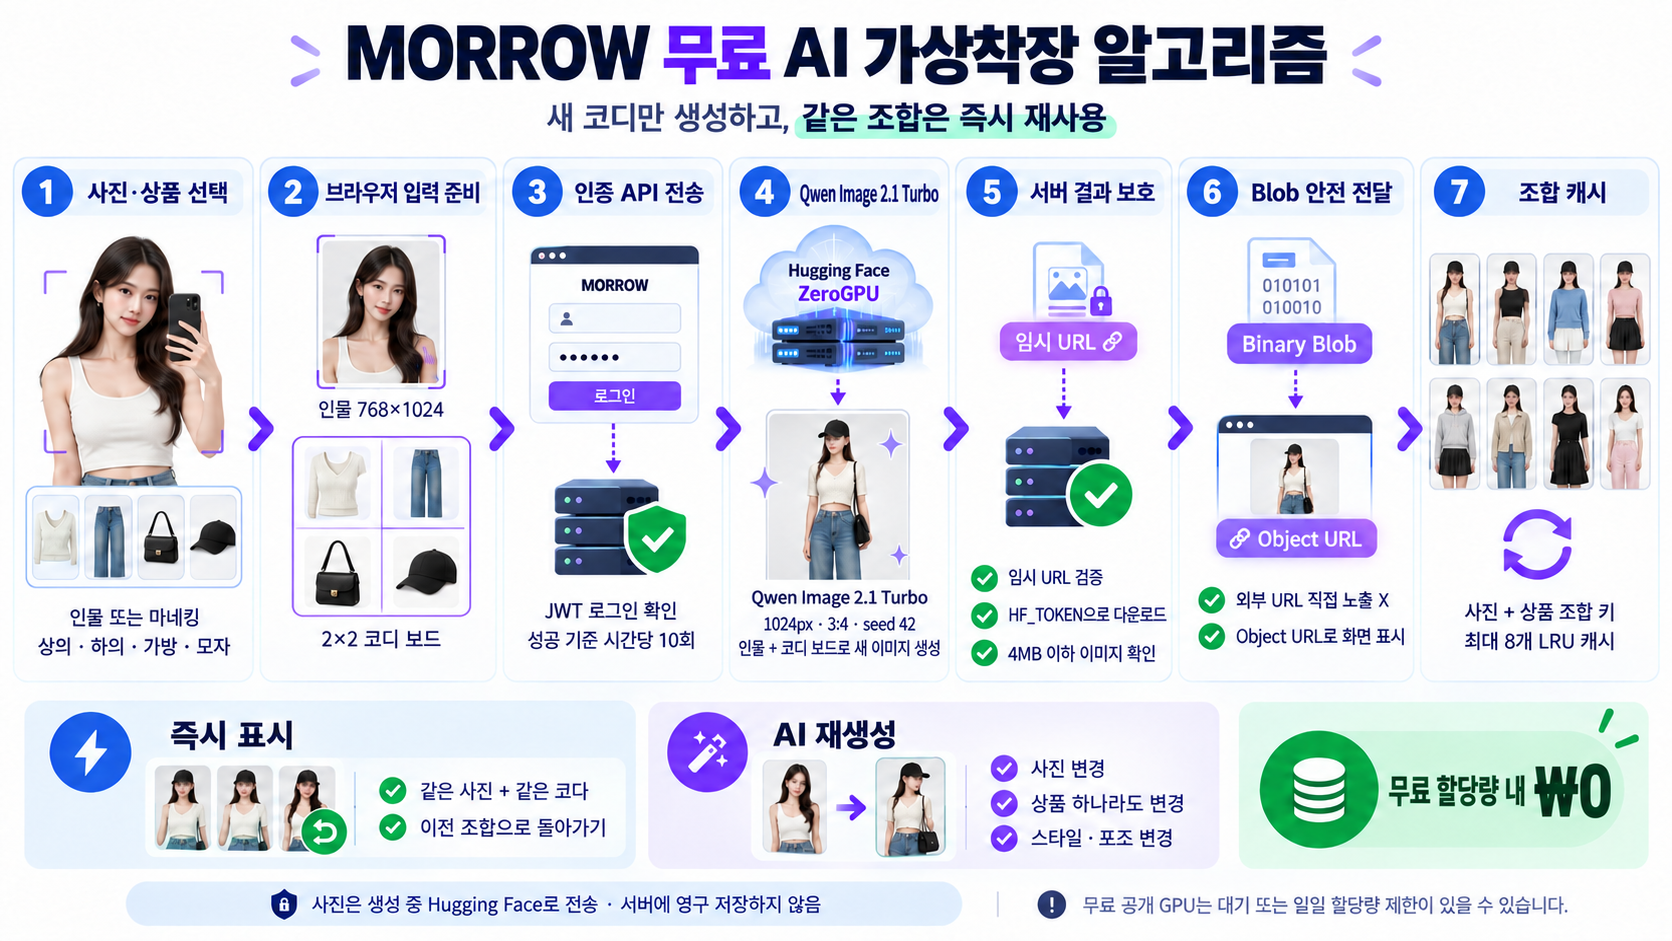
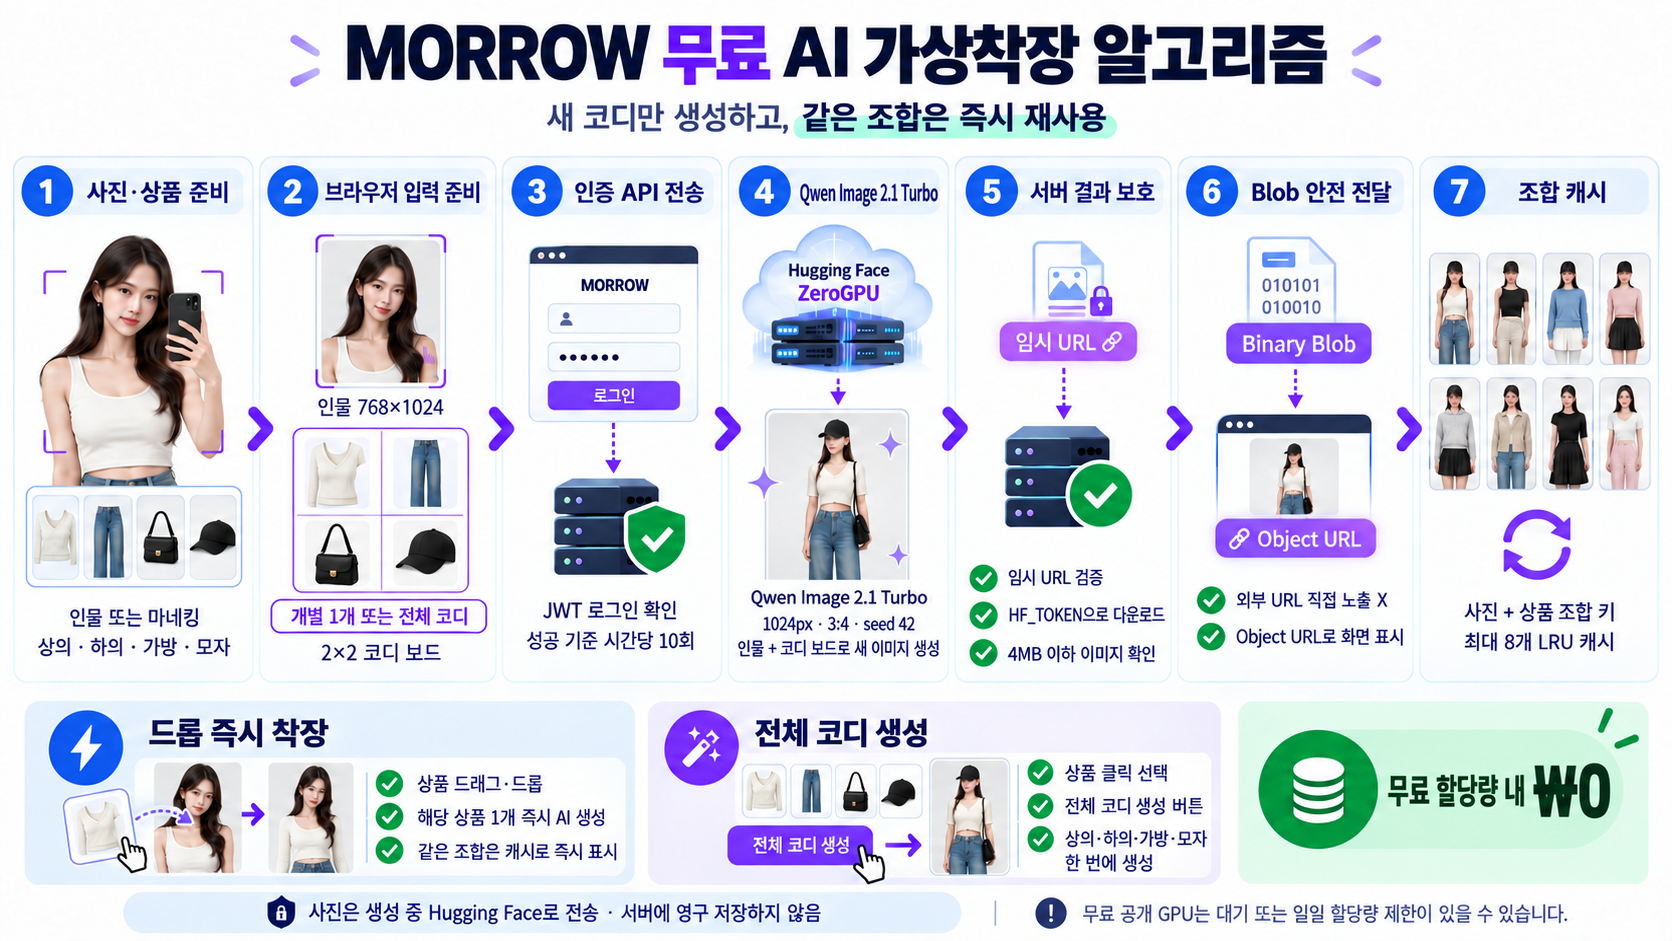
Optimize AI try-on interactions and docs

diff --git a/클라이언트/src/components/CartVirtualTryOn.jsx b/클라이언트/src/components/CartVirtualTryOn.jsx
@@ -75,12 +75,13 @@ function CartVirtualTryOn({ items, isOpen, onClose }) {
   const [isDragOver, setIsDragOver] = useState(false)
   const [dragPreview, setDragPreview] = useState(null)
   const [aiImageUrl, setAiImageUrl] = useState('')
-  const [isAiGenerating, setIsAiGenerating] = useState(false)
   const [aiGenerationLabel, setAiGenerationLabel] = useState('')
   const [isAiRevealing, setIsAiRevealing] = useState(false)
+  const isAiGenerating = Boolean(aiGenerationLabel)
   const objectUrlRef = useRef('')
   const aiImageObjectUrlRef = useRef('')
   const activeResultKeyRef = useRef('')
+  const generationInFlightRef = useRef(false)
   const productDragRef = useRef(null)
   const suppressClickRef = useRef(false)
   const closeButtonRef = useRef(null)
@@ -125,15 +126,7 @@ function CartVirtualTryOn({ items, isOpen, onClose }) {
     }
   }, [isOpen, onClose])
 
-  function updateSelection(productId, visible) {
-    clearAiResult()
-    setPlacements((current) => ({
-      ...current,
-      [productId]: { visible },
-    }))
-  }
-
-  function showProduct(product) {
+  function selectProduct(product) {
     clearAiResult()
     setSelectedId(product.key)
     setPlacements((current) => Object.fromEntries(
@@ -149,32 +142,20 @@ function CartVirtualTryOn({ items, isOpen, onClose }) {
     ))
   }
 
-  function fitProduct(product) {
-    clearAiResult()
-    setSelectedId(product.key)
-    setPlacements((current) => Object.fromEntries(
-      products.map((candidate) => [
-        candidate.key,
-        candidate.key === product.key
-          ? { visible: true }
-          : {
-              ...current[candidate.key],
-              visible: candidate.slot === product.slot ? false : current[candidate.key]?.visible,
-            },
-      ]),
-    ))
-  }
-
   function toggleProduct(product) {
-    clearAiResult()
     if (placements[product.key]?.visible) {
-      updateSelection(product.key, false)
+      clearAiResult()
+      setPlacements((current) => ({
+        ...current,
+        [product.key]: { visible: false },
+      }))
       return
     }
-    showProduct(product)
+    selectProduct(product)
   }
 
   function handleProductPointerDown(event, product) {
+    if (generationInFlightRef.current) return
     if (event.pointerType === 'mouse' && event.button !== 0) return
     event.preventDefault()
     event.currentTarget.setPointerCapture(event.pointerId)
@@ -214,9 +195,9 @@ function CartVirtualTryOn({ items, isOpen, onClose }) {
     }
     if (drag.active) {
       if (!cancelled && isPointOverStage(event.clientX, event.clientY)) {
-        fitProduct(drag.product)
+        selectProduct(drag.product)
         setError('')
-        void generateAiOutfit([drag.product])
+        void generateAiOutfit(drag.product)
       }
       suppressClickRef.current = true
       window.setTimeout(() => { suppressClickRef.current = false }, 0)
@@ -228,7 +209,7 @@ function CartVirtualTryOn({ items, isOpen, onClose }) {
 
   function handleProductClick(product) {
     if (suppressClickRef.current) return
-    showProduct(product)
+    selectProduct(product)
   }
 
   function handlePhotoChange(event) {
@@ -273,8 +254,8 @@ function CartVirtualTryOn({ items, isOpen, onClose }) {
     setSelectedId(products[0]?.key || '')
   }
 
-  async function generateAiOutfit(productsOverride) {
-    if (isAiGenerating) return
+  async function generateAiOutfit(singleProduct = null) {
+    if (generationInFlightRef.current) return
 
     const auth = getStoredAuth()
     if (!auth) {
@@ -282,18 +263,9 @@ function CartVirtualTryOn({ items, isOpen, onClose }) {
       return
     }
 
-    const isSingleProductTryOn = Array.isArray(productsOverride)
-    const selectedBySlot = new Map()
-    if (!isSingleProductTryOn) {
-      products.forEach((product) => {
-        if (placements[product.key]?.visible && !selectedBySlot.has(product.slot)) {
-          selectedBySlot.set(product.slot, product)
-        }
-      })
-    }
-    const outfitProducts = isSingleProductTryOn
-      ? productsOverride.slice(0, 1)
-      : [...selectedBySlot.values()]
+    const outfitProducts = singleProduct
+      ? [singleProduct]
+      : products.filter((product) => placements[product.key]?.visible)
     if (!outfitProducts.length) {
       setError('먼저 착용할 상품을 하나 이상 선택해 주세요.')
       return
@@ -313,9 +285,9 @@ function CartVirtualTryOn({ items, isOpen, onClose }) {
       return
     }
 
-    setIsAiGenerating(true)
-    setAiGenerationLabel(isSingleProductTryOn
-      ? `${outfitProducts[0].name} 상품을 입히는 중...`
+    generationInFlightRef.current = true
+    setAiGenerationLabel(singleProduct
+      ? `${singleProduct.name} 상품을 입히는 중...`
       : '선택한 전체 코디를 한 벌로 입히는 중...')
     setError('')
     try {
@@ -346,7 +318,7 @@ function CartVirtualTryOn({ items, isOpen, onClose }) {
     } catch (generationError) {
       setError(generationError.message || '무료 AI 가상 착장에 실패했습니다.')
     } finally {
-      setIsAiGenerating(false)
+      generationInFlightRef.current = false
       setAiGenerationLabel('')
     }
   }
@@ -435,10 +407,10 @@ function CartVirtualTryOn({ items, isOpen, onClose }) {
             </div>
 
             <label className="virtual-tryon-change-photo cart-tryon-photo-control">
-              <input type="file" accept="image/*" onChange={handlePhotoChange} />
+              <input type="file" accept="image/*" disabled={isAiGenerating} onChange={handlePhotoChange} />
               {isUsingMannequin ? '내 사진으로 바꾸기' : '사진 바꾸기'} <small>{photoName}</small>
             </label>
-            {!isUsingMannequin ? <button className="virtual-tryon-mannequin" type="button" onClick={useDefaultMannequin}>기본 마네킹으로 돌아가기</button> : null}
+            {!isUsingMannequin ? <button className="virtual-tryon-mannequin" type="button" disabled={isAiGenerating} onClick={useDefaultMannequin}>기본 마네킹으로 돌아가기</button> : null}
 
             <div className="cart-tryon-ai-box">
               <span aria-hidden="true">AI</span>
@@ -449,7 +421,7 @@ function CartVirtualTryOn({ items, isOpen, onClose }) {
               <small>같은 사진과 코디는 페이지를 나가기 전까지 즉시 재사용하며, 새로운 조합만 AI가 생성합니다.</small>
             </div>
 
-            <button className="virtual-tryon-reset" type="button" onClick={resetOutfit}>AI 코디 선택 초기화</button>
+            <button className="virtual-tryon-reset" type="button" disabled={isAiGenerating} onClick={resetOutfit}>AI 코디 선택 초기화</button>
             {error ? <p className="virtual-tryon-error" role="alert">{error}</p> : null}
             <div className="virtual-tryon-notice cart-tryon-notice">
               <strong>주문 전 마지막으로 확인해 보세요</strong>

diff --git a/클라이언트/src/components/CartVirtualTryOn.css b/클라이언트/src/components/CartVirtualTryOn.css
@@ -27,6 +27,9 @@
 .cart-tryon-visibility[aria-pressed="false"] { color: #aaa5b0; background: #eeecef; }
 .cart-tryon-visibility:disabled { opacity: .55; cursor: wait; }
 .cart-tryon-photo-control { margin: 15px 0 20px; }
+.cart-tryon-photo-control:has(input:disabled),
+.cart-tryon-panel .virtual-tryon-mannequin:disabled,
+.cart-tryon-panel .virtual-tryon-reset:disabled { opacity: .55; cursor: wait; }
 .cart-tryon-ai-box { display: grid; grid-template-columns: 38px minmax(0, 1fr); gap: 9px 10px; align-items: center; margin: 0 0 18px; padding: 12px; border: 1px solid #cfc7ff; border-radius: 12px; background: linear-gradient(145deg, #f4f1ff, #fbfaff); }
 .cart-tryon-ai-box > span { display: grid; width: 38px; height: 38px; place-items: center; border-radius: 50%; color: #fff; background: #5138f5; font-size: 9px; font-weight: 950; }
 .cart-tryon-ai-box p { display: grid; gap: 3px; margin: 0; }

diff --git a/artifacts/virtual-tryon-infographic/README.md b/artifacts/virtual-tryon-infographic/README.md
@@ -6,5 +6,7 @@
 - Hugging Face ZeroGPU
 - 1024px, 3:4, seed 42
 - 인물 이미지와 코디 보드를 이용한 이미지 생성
+- 상품 드래그·드롭 시 해당 상품 1개 즉시 AI 착장
+- 상품 클릭 선택 후 버튼으로 전체 코디 AI 착장
 - 서버 Blob 전달 및 브라우저 조합 캐시
 - 무료 공개 GPU 할당량 제한 안내
